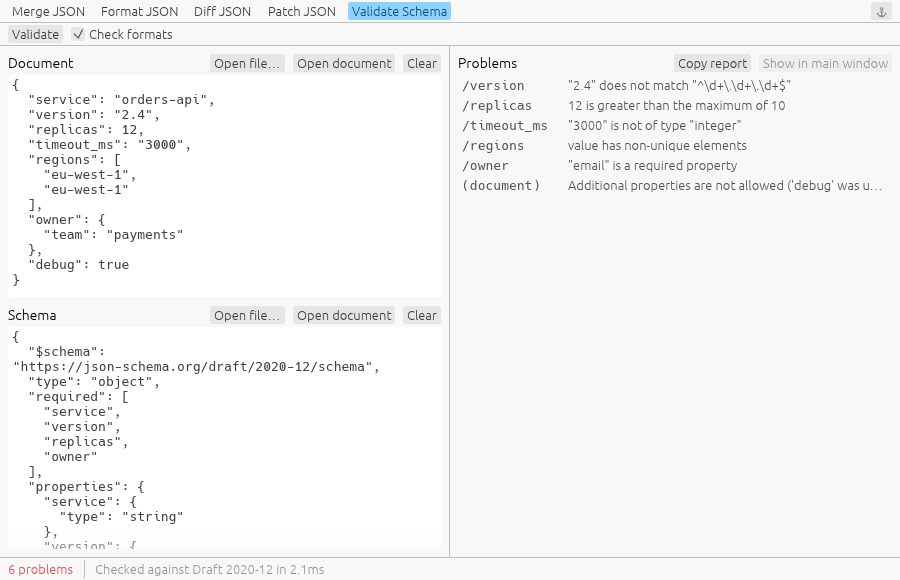
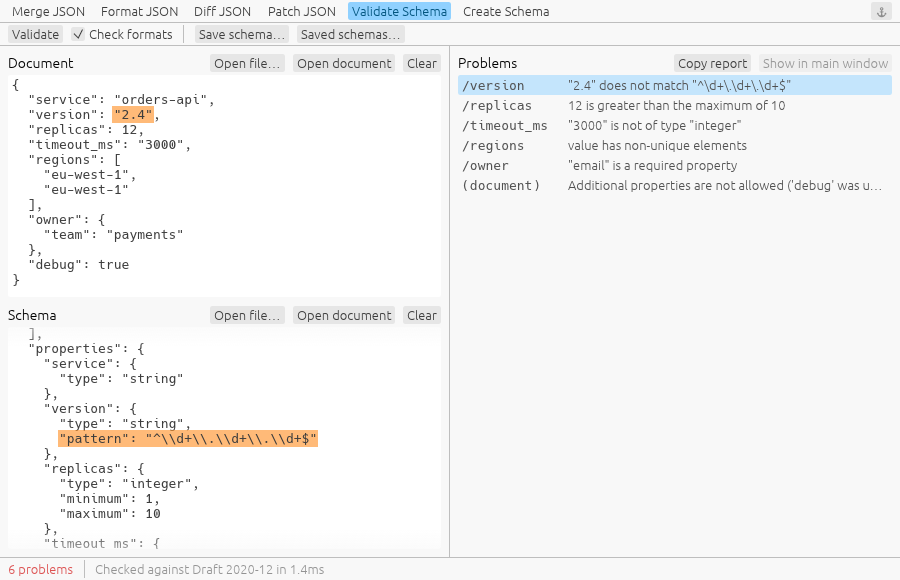
docs: pictures taken again for the sixth tool and the URLs chip, a picture of Create Schema, and a card for the repository's social preview
The Tools window has six tabs now, so every picture that shows its row of tabs was taken again
in the same way and at the same size as before: Merge (and the deep merge), Format, Diff, Patch,
Validate, and the two pictures of the Tools docked. Validate's picture has its first problem
clicked, so the value that is wrong is highlighted in the document and the keyword in the schema.
The tutorial's picture shows its fifth tab, Tools; the Workspace pictures show the URLs chip and a
web address among the items.

New: screenshot-tools-create.png, under "Create Schema" in the README: orders with ids, dates,
uuids, emails and IP addresses, the schema made of them, and the ids' pattern clicked, open under
the list and pointed out in the schema and in the document. And social-preview.png (1280 x 640),
the card that GitHub shows for a link to the repository once it is uploaded in the settings.

README: "six small utilities"; the alt texts of the docked, Diff and Validate pictures say what
they show (the Diff one described a pick and a caret that the picture does not have).

diff --git a/README.md b/README.md
@@ -153,7 +153,7 @@ patches and validates documents too. Built in Rust with
 
 ## Tools
 
-The 🛠 icon in the toolbar opens the **Tools** window: five small utilities,
+The 🛠 icon in the toolbar opens the **Tools** window: six small utilities,
 each on a tab of its own, laid out like the main window — a command row with
 the tool's main button and its options, what goes in on the left, what came
 out on the right, and a status bar that says what happened. JSON goes into a
@@ -177,7 +177,7 @@ and takes the file in one of its boxes, **Json Query** runs the query and opens 
 as the document (several files go to Merge, whose tab comes to the front). Where the
 Tools are is remembered.
 
-![The Tools docked in the main window: the row of tabs with Json Query first, and Diff JSON in front](docs/images/screenshot-tools-docked.png)
+![The Tools docked in the main window: the row of tabs with Json Query first and Create Schema last, and Diff JSON in front](docs/images/screenshot-tools-docked.png)
 
 ### Merge JSON
 
@@ -242,7 +242,7 @@ typed (a value, a member, nothing to take the line out, several to put them in) 
 in the document and compared again. A document that a move or an edit changed says
 so, and the **Save…** over its column writes it to a file — either, or both.
 
-![Diff JSON: two versions of a configuration side by side, with the added, removed and changed lines marked, two arrows one over the other between the sides at every difference, a line picked in the left document and, in the right one, the same line with a caret in it and a new value being typed over it](docs/images/screenshot-tools-diff.png)
+![Diff JSON: two versions of a configuration side by side, with the added, removed and changed lines marked and two arrows one over the other between the sides at every difference](docs/images/screenshot-tools-diff.png)
 
 ### Patch JSON
 
@@ -261,7 +261,7 @@ that is open in the main window, **Show in main window** reveals a problem
 there. Nothing is ever fetched: a `$ref` has to
 point inside the schema.
 
-![Validate Schema: a document checked against a schema, six problems listed with their pointers](docs/images/screenshot-tools-validate.png)
+![Validate Schema: a document checked against a schema, six problems listed with their pointers; the first one is picked, and the value that is wrong is highlighted in the document and the keyword that said so in the schema](docs/images/screenshot-tools-validate.png)
 
 ### Create Schema
 
@@ -275,6 +275,8 @@ against the document, and **Use in Validate** checks it there. Click a pattern t
 see where it is in the document and the schema, and to change it, make it a plain
 string, or restore it; click an enum to leave values out, add others, or make it a
 plain string — or edit the schema's text itself.
+
+![Create Schema: a list of orders and the schema made of it, with a pattern for the order ids, a date-time, a uuid, an email and an IPv4 address among the patterns and enums listed under it; the ids' pattern is open under the list, and highlighted in the schema and, at its first place, in the document](docs/images/screenshot-tools-create.png)
 
 ## Known limitations
 
